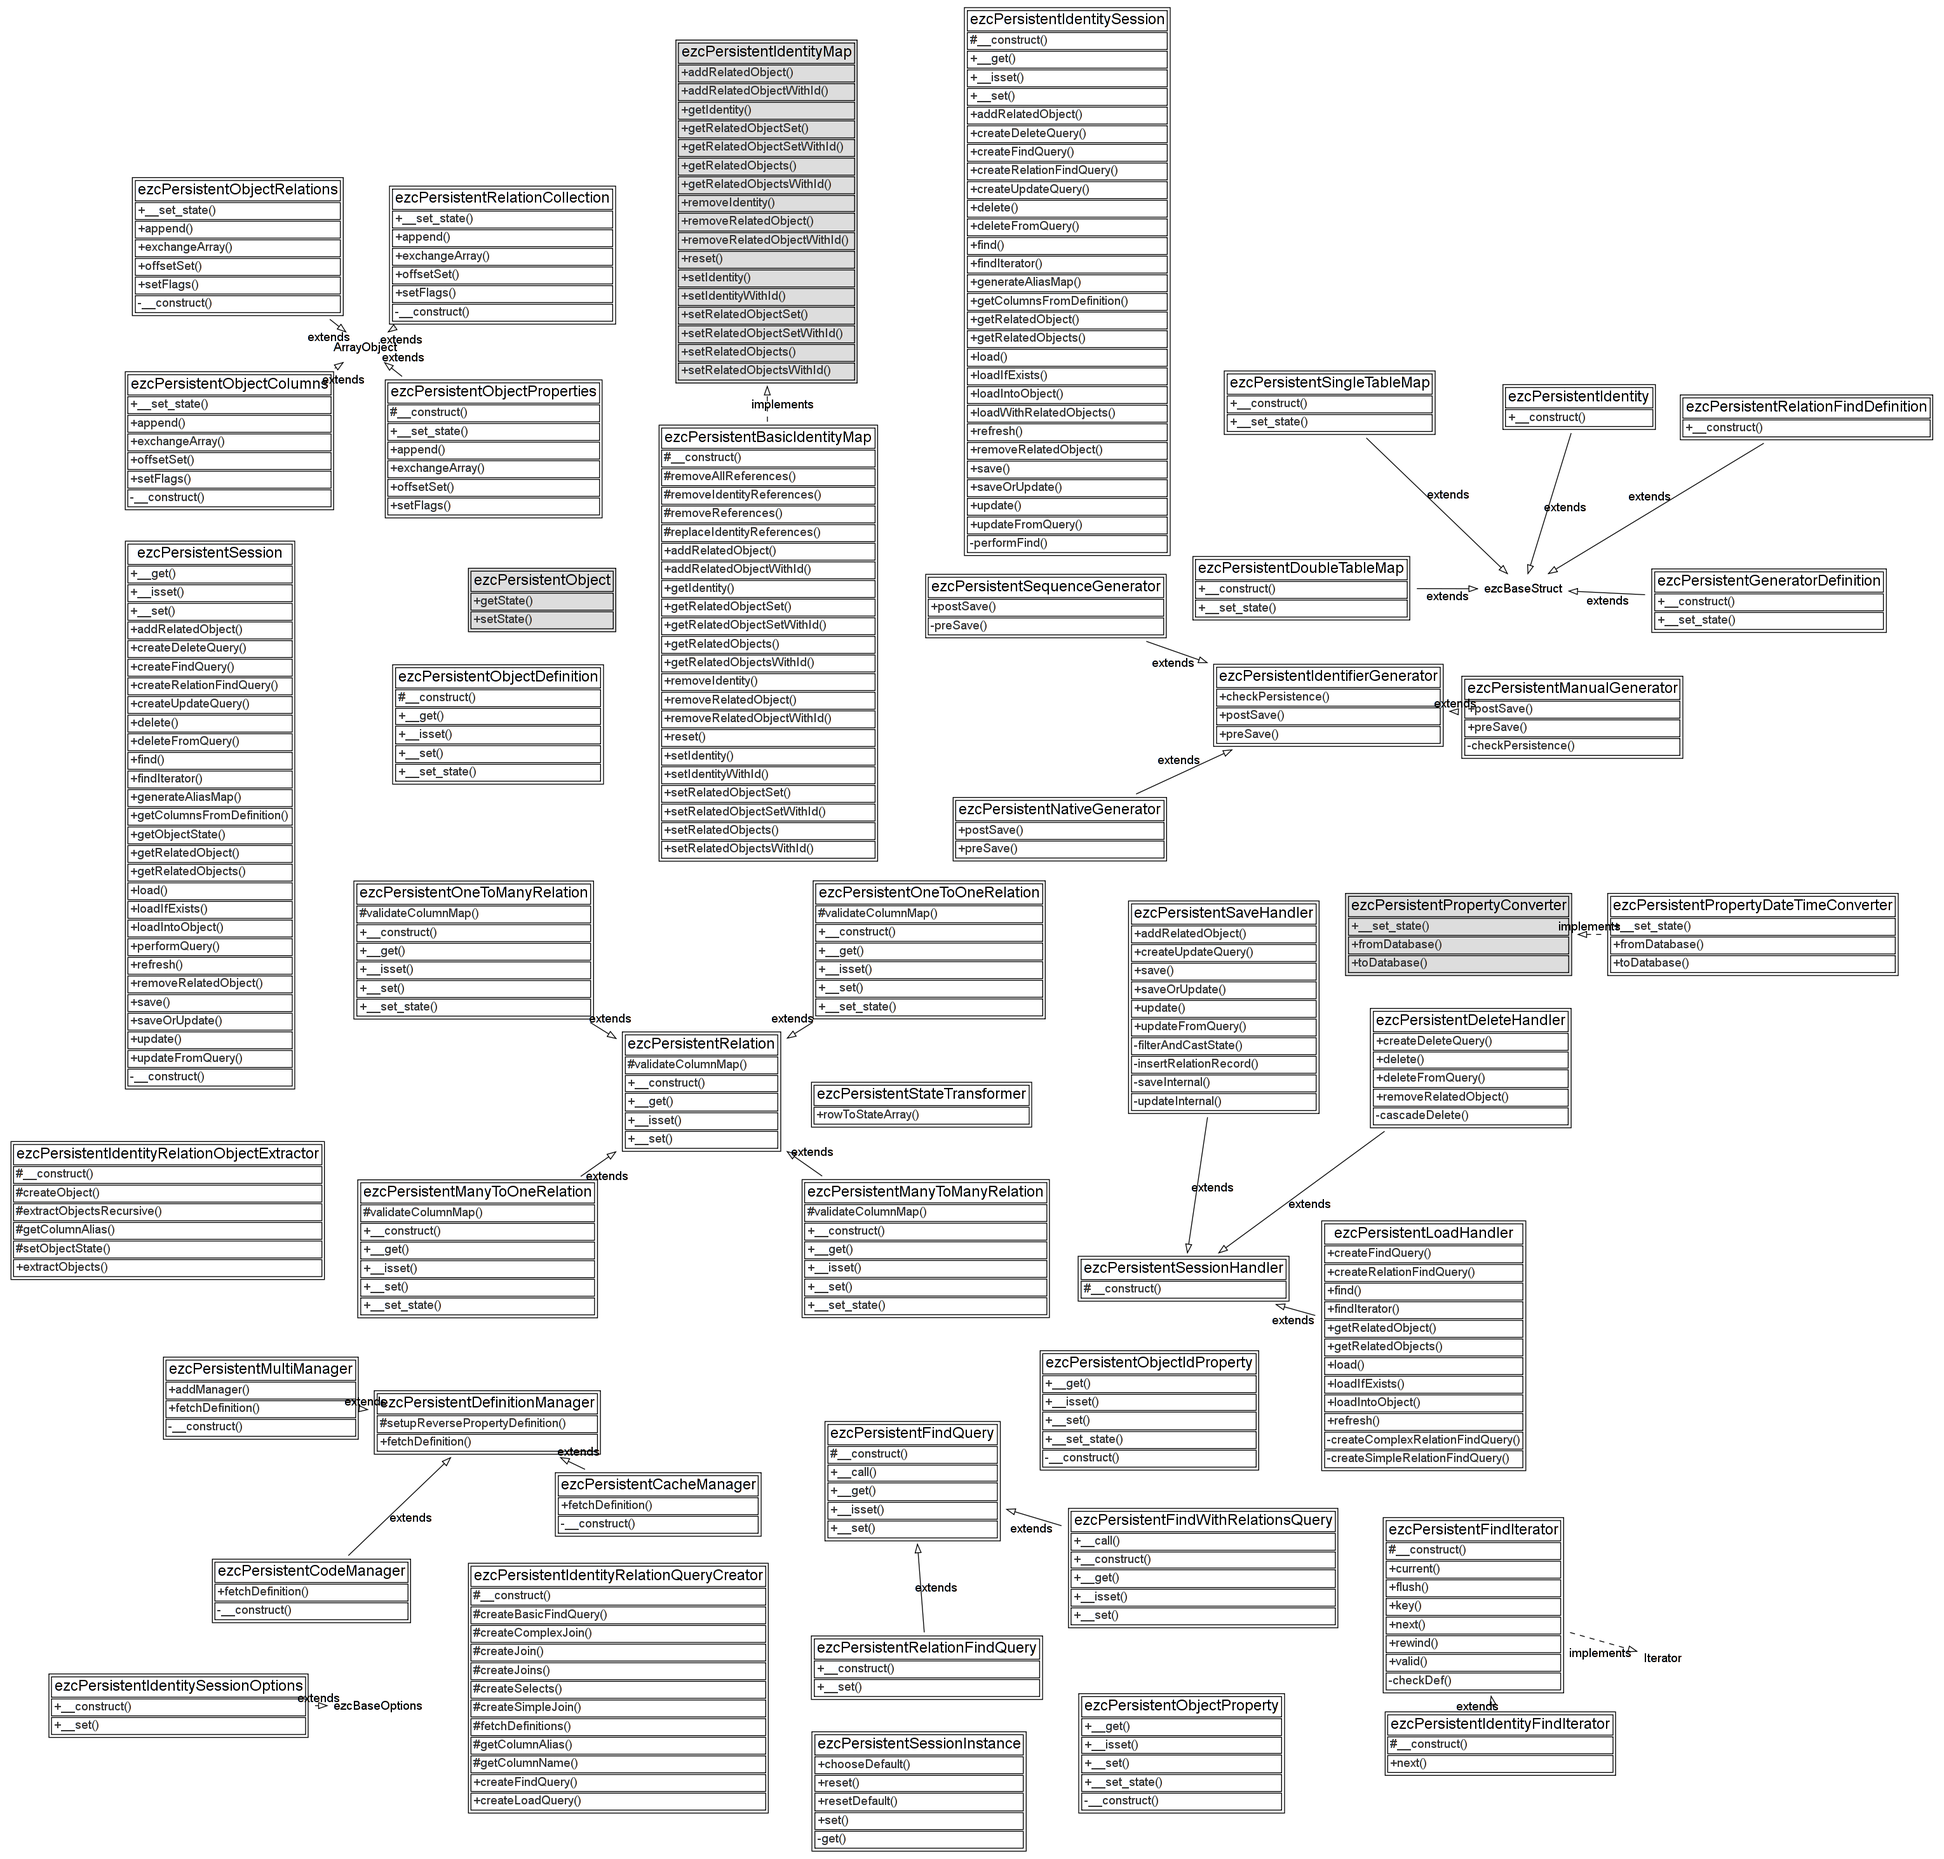
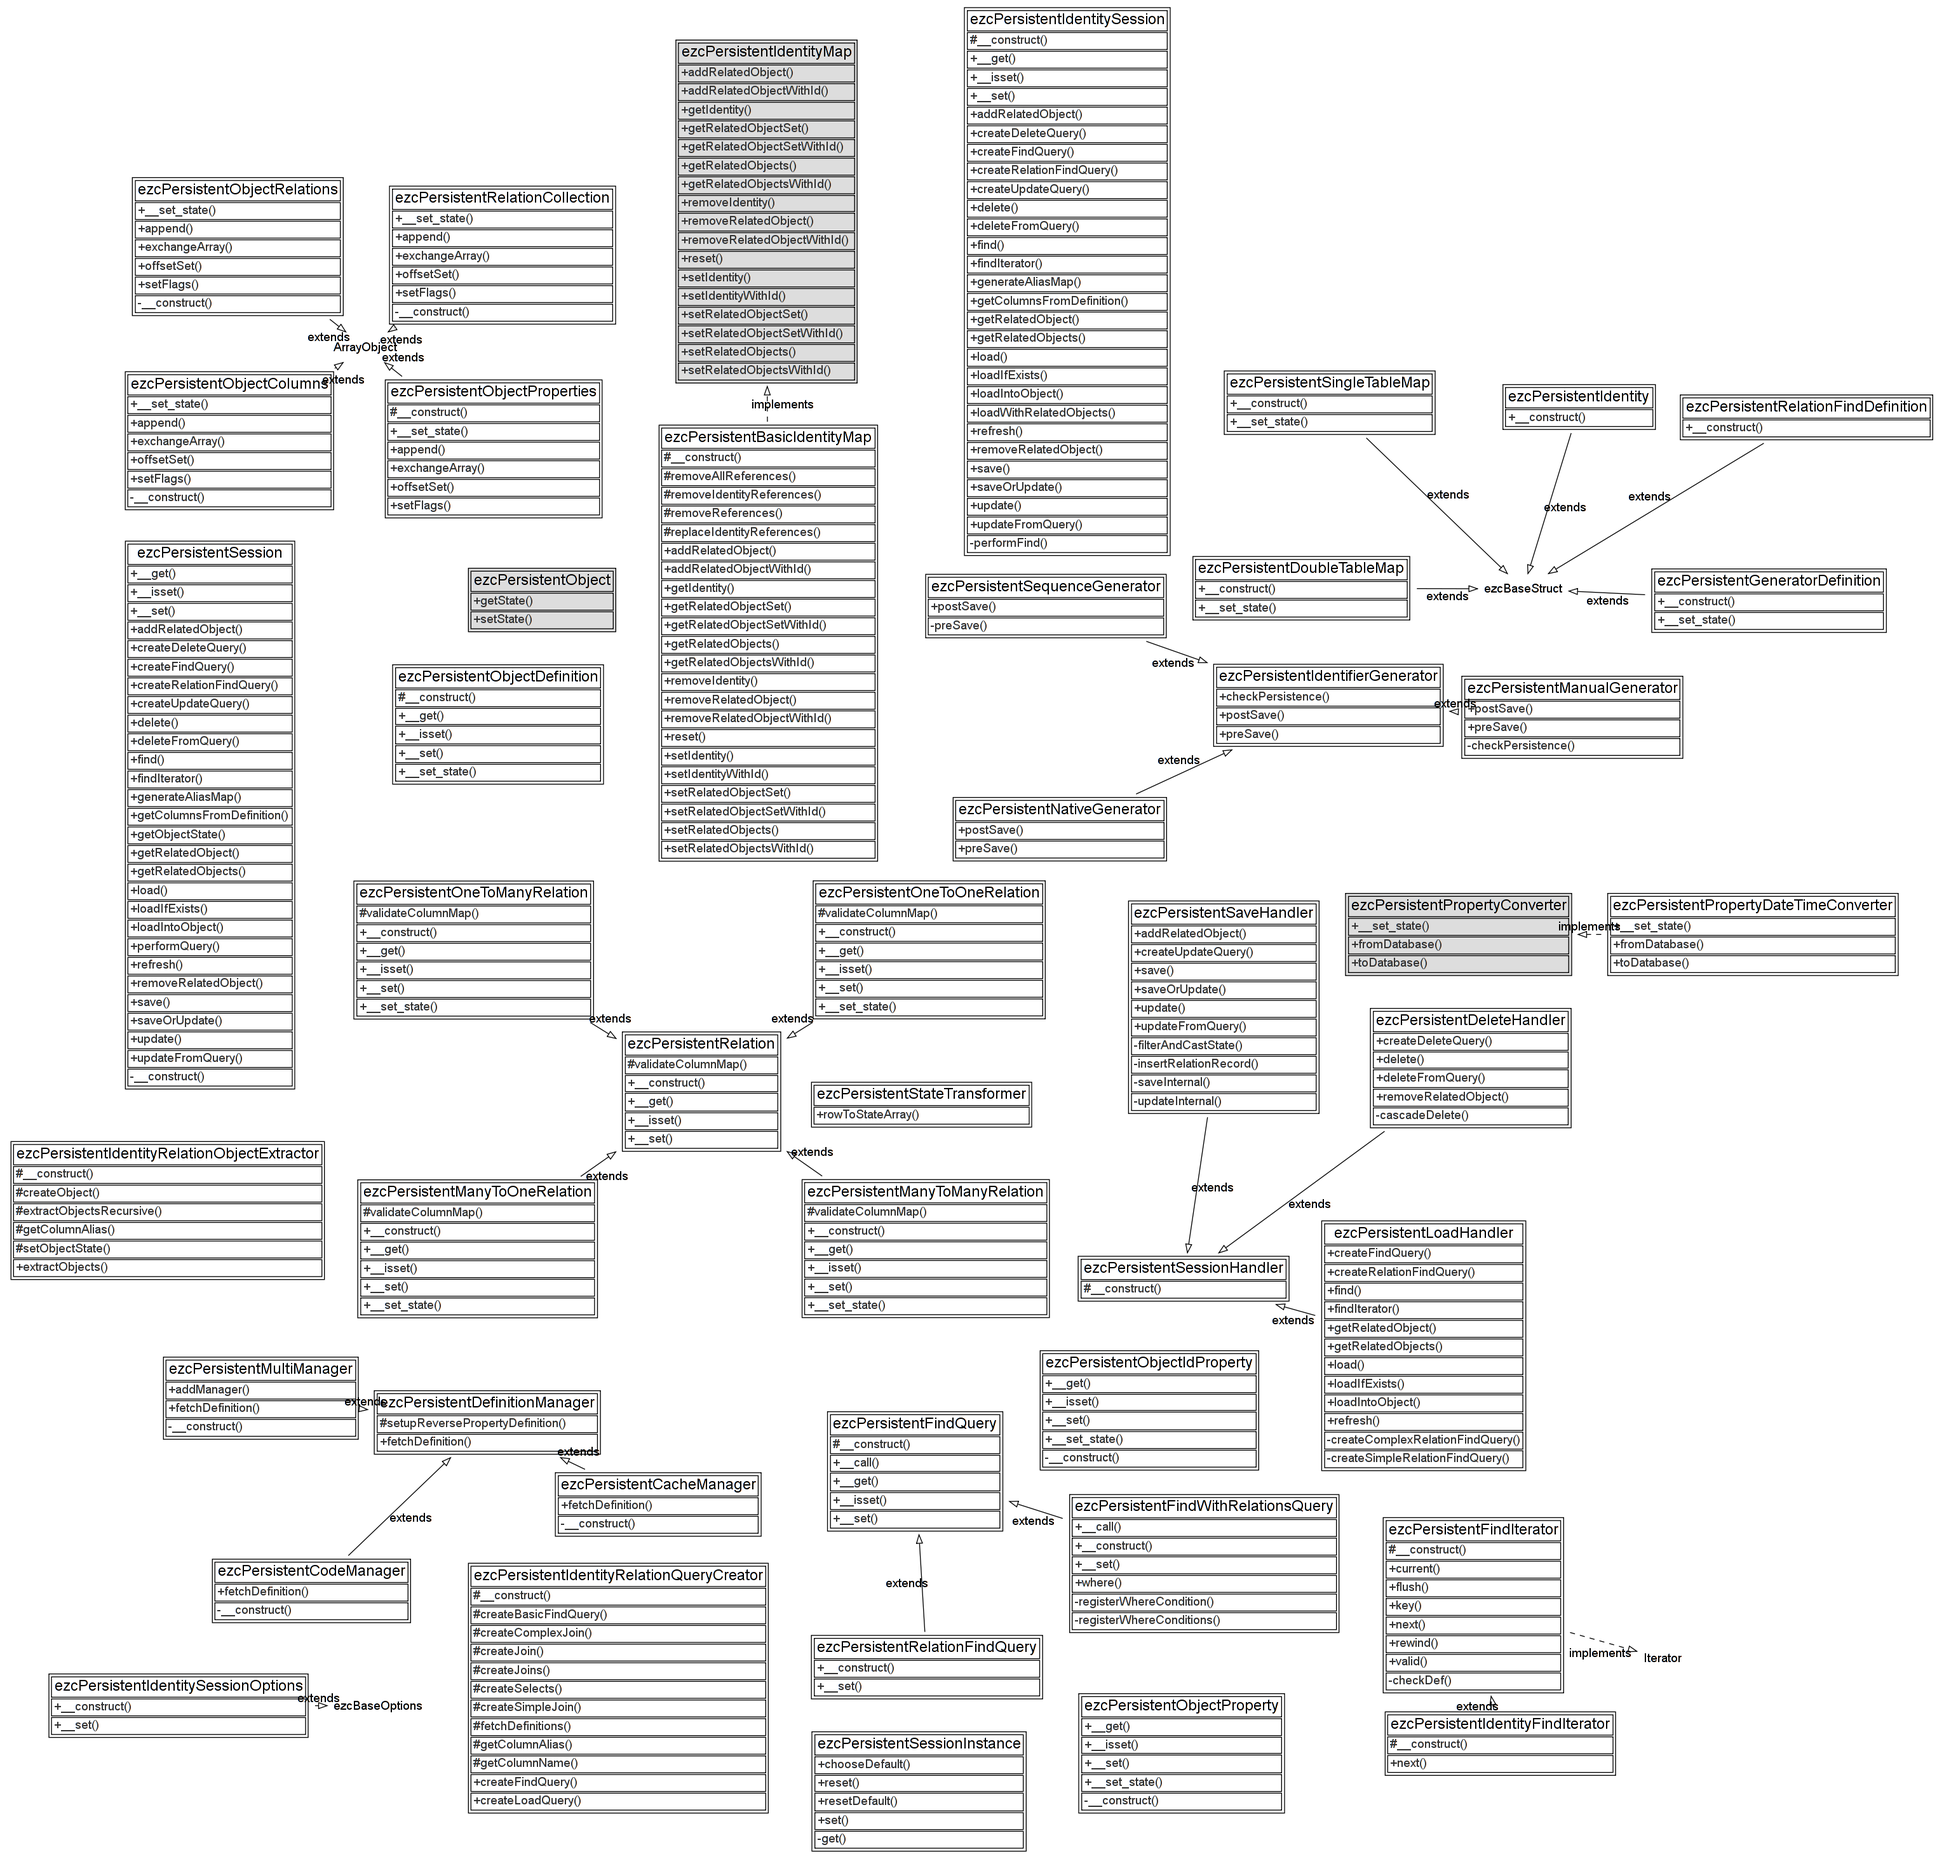
- Added query class for relation pre-fetch queries, which registers WHERE   conditions on relation aliases.
git-svn-id: https://svn.apache.org/repos/asf/incubator/zetacomponents/trunk@977464 13f79535-47bb-0310-9956-ffa450edef68

Changed region(s): [[0.4036, 0.7462, 0.7141, 0.9327]]

diff --git a/PersistentObject/src/queries/find_with_relations_query.php b/PersistentObject/src/queries/find_with_relations_query.php
@@ -1,0 +1,189 @@
+<?php
+/**
+ * File containing the ezcPersistentFindQuery class.
+ *
+ * @package PersistentObject
+ * @version //autogen//
+ * @copyright Copyright (C) 2005-2009 eZ Systems AS. All rights reserved.
+ * @license http://ez.no/licenses/new_bsd New BSD License
+ */
+/**
+ * Find query object for pre-fetching queries in ezcPersistentIdentitySession.
+ * 
+ * @package PersistentObject
+ * @version //autogen//
+ */
+class ezcPersistentFindWithRelationsQuery extends ezcPersistentFindQuery
+{
+    /**
+     * Creates a new persistent find query.
+     *
+     * Creates a new persistent find query from the query object $q and the
+     * given $className.
+     * 
+     * @param ezcQuerySelect $query
+     * @param string $className
+     */
+    public function __construct( ezcQuerySelect $query, $className, array $relations )
+    {
+        parent::__construct( $query, $className );
+        
+        $this->properties['relations']           = $relations;
+        $this->properties['restrictedRelations'] = array();
+    }
+
+    /**
+     * Adds a where clause with logical expressions to the query.
+     *
+     * where() accepts an arbitrary number of parameters. Each parameter
+     * must contain a logical expression or an array with logical expressions.
+     * If you specify multiple logical expression they are connected using
+     * a logical and.
+     *
+     * Multiple calls to where() will join the expressions using a logical and.
+     *
+     * Example:
+     * <code>
+     * $q->select( '*' )->from( 'table' )->where( $q->expr->eq( 'id', 1 ) );
+     * </code>
+     *
+     * Note, that whenever you restrict a set of related objects by a custom
+     * WHERE expression using this function, this restriction is recorded. For
+     * relations that have a WHERE restriction applied, the found related
+     * object set is not registered as the main related object set itself, but
+     * as a named related object sub-set under the alias name you registered in
+     * the relation definition.
+     *
+     * @TODO Example!
+     *
+     * @throws ezcQueryVariableParameterException if called with no parameters.
+     * @param string|array(string) $... Either a string with a logical expression name
+     * or an array with logical expressions.
+     * @return ezcQuerySelect
+     */
+    public function where()
+    {
+        $args = func_get_args();
+
+        $this->registerWhereConditions( $args );
+
+        $this->query->where( $args );
+
+        return $this;
+    }
+
+    /**
+     * Registers all WHERE conditions in $whereArgs.
+     *
+     * Checks through all WHERE conditions in $whereArgs, if they contain
+     * restriction on relation fetches. Restricted relation names are
+     * registered in the $restrictedRelations property for later fetching.
+     * 
+     * @param array $whereArgs 
+     * @return void
+     */
+    private function registerWhereConditions( array $whereArgs )
+    {
+        foreach ( $whereArgs as $condition )
+        {
+            if ( is_array( $condition ) )
+            {
+                $this->registerWhere( $condition );
+            }
+            else
+            {
+                // Condition is a string
+                $this->registerWhereCondition( $condition, $this->relations );
+            }
+        }
+    }
+
+    /**
+     * Checks for relation alias occurances in $condition.
+     * 
+     * Checks which aliases for $relations occur in the given $condition and
+     * registers them to be restricted fetches in the property
+     * $restrictedRelations.
+     *
+     * @param string $condition 
+     * @param array(ezcPersistentRelationFindDefinition) $relations 
+     * @return void
+     */
+    private function registerWhereCondition( $condition, array $relations )
+    {
+        foreach ( $relations as $alias => $relation )
+        {
+            if ( strpos( $condition, $alias ) !== false )
+            {
+                $this->properties['restrictedRelations'][$alias] = true;
+            }
+            $this->registerWhereCondition(
+                $condition,
+                $relation->furtherRelations
+            );
+        }
+    }
+
+    /**
+     * Delegate to inner $query object.
+     *
+     * This query object does not allow any other calls than {where()} and
+     * {groupBy()}. Therefore, this method throws an exception, for any other
+     * call.
+     * 
+     * @param string $methodName
+     * @param array $arguments
+     * @return mixed
+     * @throws RuntimeException For any call.
+     */
+    public function __call( $methodName, $arguments )
+    {
+        switch ( $methodName )
+        {
+            case 'orderBy':
+            case 'getQuery':
+            case 'hasAliases':
+            case 'getIdentifier':
+            case 'getIdentifiers':
+            case 'bindValue':
+            case 'bindParam':
+            case 'resetBinds':
+            case 'doBind':
+            case 'prepare':
+            case 'subSelect':
+                return parent::__call( $methodName, $arguments );
+        }
+        throw new RuntimeException(
+            "Method '$methodName' does not exist or is not allowed to be called."
+        );
+    }
+
+    /**
+     * Property set access.
+     * 
+     * @param string $propertyName 
+     * @param mixed $properyValue
+     * @ignore
+     *
+     * @throws ezcBasePropertyNotFoundException
+     *         if the desired property could not be found.
+     * @throws ezcBaseValueException
+     *         if $properyValue is not valid for $propertyName.
+     */
+    public function __set( $propertyName, $properyValue )
+    {
+        switch ( $propertyName )
+        {
+            case 'relations':
+                throw new ezcBasePropertyPermissionException(
+                    $propertyName,
+                    ezcBasePropertyPermissionException::READ
+                );
+
+            default:
+                return parent::__set( $propertyName, $properyValue );
+        }
+    }
+}
+
+?>

diff --git a/PersistentObject/tests/find_with_relations_query_test.php b/PersistentObject/tests/find_with_relations_query_test.php
@@ -1,0 +1,140 @@
+<?php
+/**
+ * @copyright Copyright (C) 2005-2009 eZ Systems AS. All rights reserved.
+ * @license http://ez.no/licenses/new_bsd New BSD License
+ * @version //autogentag//
+ * @package PersistentObject
+ * @subpackage Tests
+ */
+
+require_once 'find_query_test.php';
+
+/**
+ * Tests the ezcPersistentFindQuery class.
+ *
+ * @package PersistentObject
+ * @subpackage Tests
+ */
+class ezcPersistentFindWithRelationsQueryTest extends ezcPersistentFindQueryTest
+{
+    public static function suite()
+    {
+        return new PHPUnit_Framework_TestSuite( __CLASS__ );
+    }
+
+    public function testRelationsInCtor()
+    {
+        $q = new ezcQuerySelect( $this->db );
+        $relations = array(
+            'bars' => new ezcPersistentRelationFindDefinition( 'BarClass' ),
+        );
+
+        $findQuery = new ezcPersistentFindWithRelationsQuery( $q, 'FooClass', $relations );
+
+        $this->assertSame( $relations, $findQuery->relations );
+    }
+
+    public function testSetOwnPropertiesFailure()
+    {
+        parent::testSetOwnPropertiesFailure();
+        $findQuery = $this->createFindQuery();
+        
+        $this->assertSetPropertyFails(
+            $findQuery,
+            'relations',
+            array( 23, 42.23, true, array(), new stdClass() )
+        );
+        $this->assertSetPropertyFails(
+            $findQuery,
+            'restrictedRelations',
+            array( 23, 42.23, true, array(), 'foo' )
+        );
+    }
+
+    public function testGetOwnPropertiesSuccess()
+    {
+        parent::testGetOwnPropertiesSuccess();
+
+        $findQuery = $this->createFindQuery();
+
+        $relations = array(
+            'bars' => new ezcPersistentRelationFindDefinition( 'BarClass' ),
+        );
+
+        $this->assertEquals( $relations, $findQuery->relations );
+        $this->assertEquals( array(), $findQuery->restrictedRelations );
+    }
+
+    public function testIssetOwnPropertiesSuccess()
+    {
+        parent::testGetOwnPropertiesSuccess();
+
+        $findQuery = $this->createFindQuery();
+
+        $this->assertTrue( isset( $findQuery->relations ) );
+        $this->assertTrue( isset( $findQuery->restrictedRelations ) );
+    }
+
+    public function testFluentInterface()
+    {
+        $q = $this->createFindQuery();
+
+        try
+        {
+            $q->select( 'foo' );
+            $this->fail( 'Exception not thrown on call to forbidden metho select().' );
+        }
+        catch ( RuntimeException $e ) {}
+
+        $q2 = $q->where(
+            $q->expr->eq(
+                'foo',
+                $q->bindValue( 23 )
+            )
+        );
+
+        $this->assertSame( $q, $q2 );
+    }
+
+    public function testRegisterWhereConditionSimple()
+    {
+        $q = $this->createFindQuery();
+
+        $q->where(
+            $q->expr->eq( 'bars_id', $q->bindValue( 23 ) )
+        );
+        
+        $this->assertEquals(
+            array( 'bars' => true ),
+            $q->restrictedRelations
+        );
+    }
+
+    public function testRegisterWhereConditionComplex()
+    {
+        $q = $this->createFindQuery();
+
+        $q->where(
+            $q->expr->gte( 'foo', 42 ),
+            $q->expr->eq( 'bars_id', $q->bindValue( 23 ) )
+        );
+        
+        $this->assertEquals(
+            array( 'bars' => true ),
+            $q->restrictedRelations
+        );
+    }
+
+    protected function createFindQuery()
+    {
+        $q   = new ezcQuerySelect( $this->db );
+        $cn  = 'myCustomClassName';
+        $rel = array(
+            'bars' => new ezcPersistentRelationFindDefinition( 'BarClass' ),
+        );
+
+        return new ezcPersistentFindWithRelationsQuery( $q, $cn, $rel );
+    }
+}
+
+?>

diff --git a/PersistentObject/tests/suite.php b/PersistentObject/tests/suite.php
@@ -55,6 +55,7 @@ require_once 'instance_delayed_init_test.php';
 
 require_once 'find_query_test.php';
 require_once 'relation_find_query_test.php';
+require_once 'find_with_relations_query_test.php';
 
 require_once 'basic_identity_map_test.php';
 require_once 'persistent_identity_session_relation_query_creator_test.php';
@@ -120,6 +121,7 @@ class ezcPersistentObjectSuite extends PHPUnit_Framework_TestSuite
 
         $this->addTest( ezcPersistentFindQueryTest::suite() );
         $this->addTest( ezcPersistentRelationFindQueryTest::suite() );
+        $this->addTest( ezcPersistentFindWithRelationsQueryTest::suite() );
 
         $this->addTest( ezcPersistentBasicIdentityMapTest::suite() );
 
